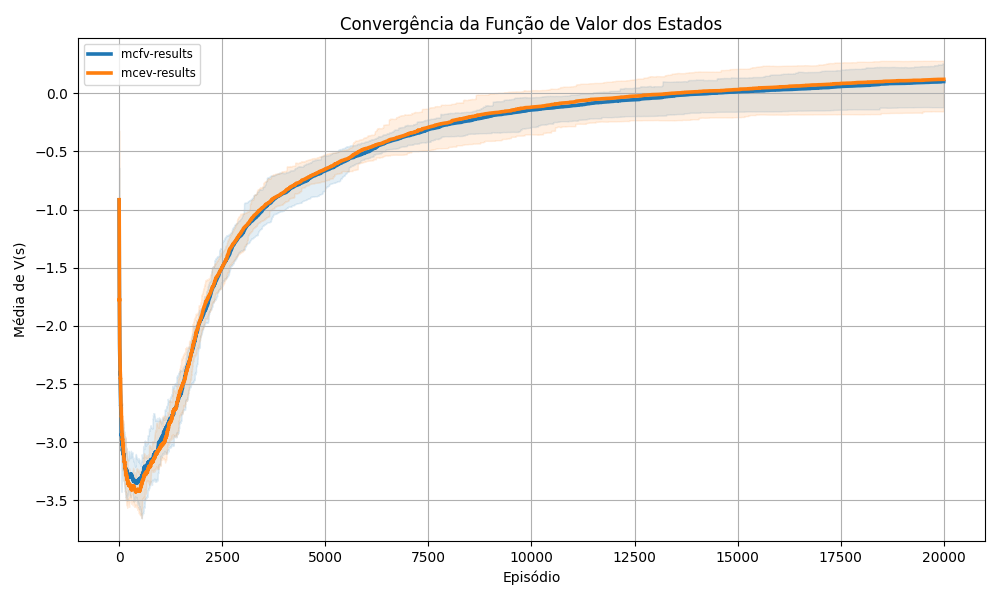
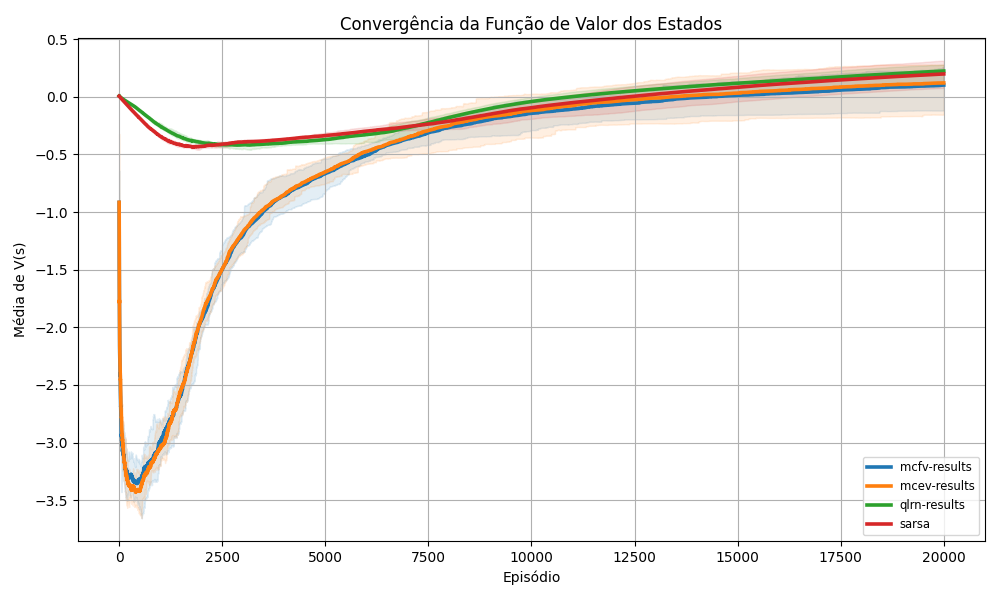
oi brenda

diff --git a/src/comparador.py b/src/comparador.py
@@ -33,7 +33,7 @@ def find_target_dirs(root: str = ".") -> dict:
 
     Retorna um dicionário {folder_name: [path1, path2, ...]}.
     """
-    names = ["mcfv-results", "mcev-results"]
+    names = ["mcfv-results", "mcev-results", "qlrn-results", "sarsa"]
     found = {n: [] for n in names}
 
     # procurar no root e em root/results
